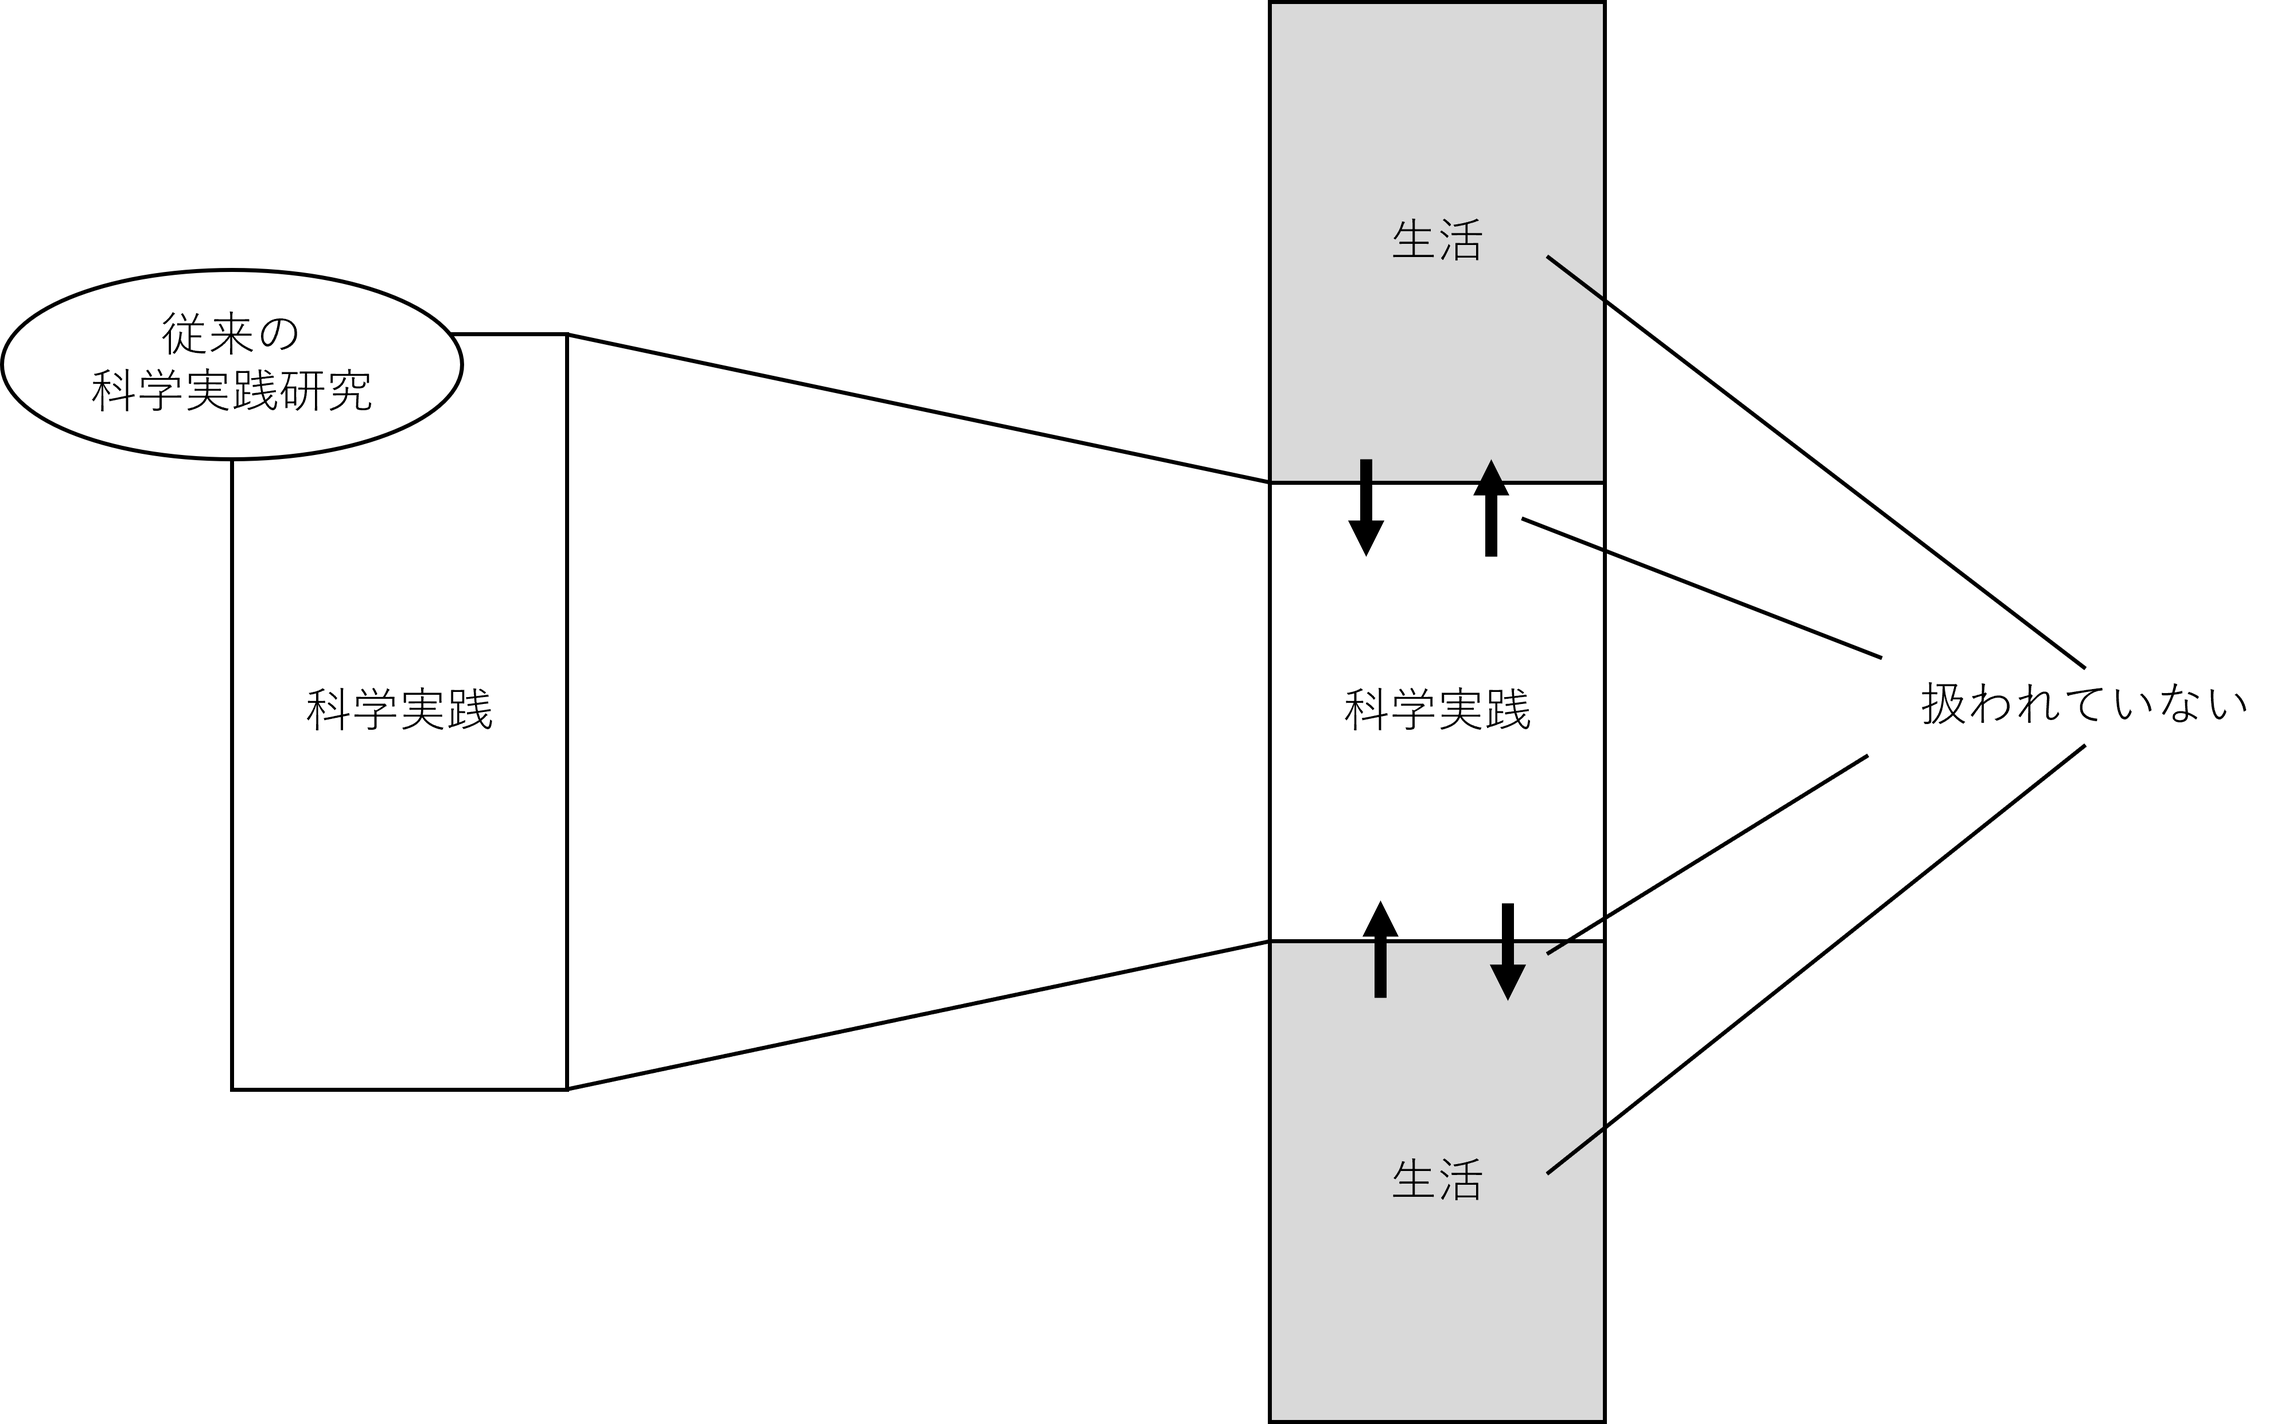
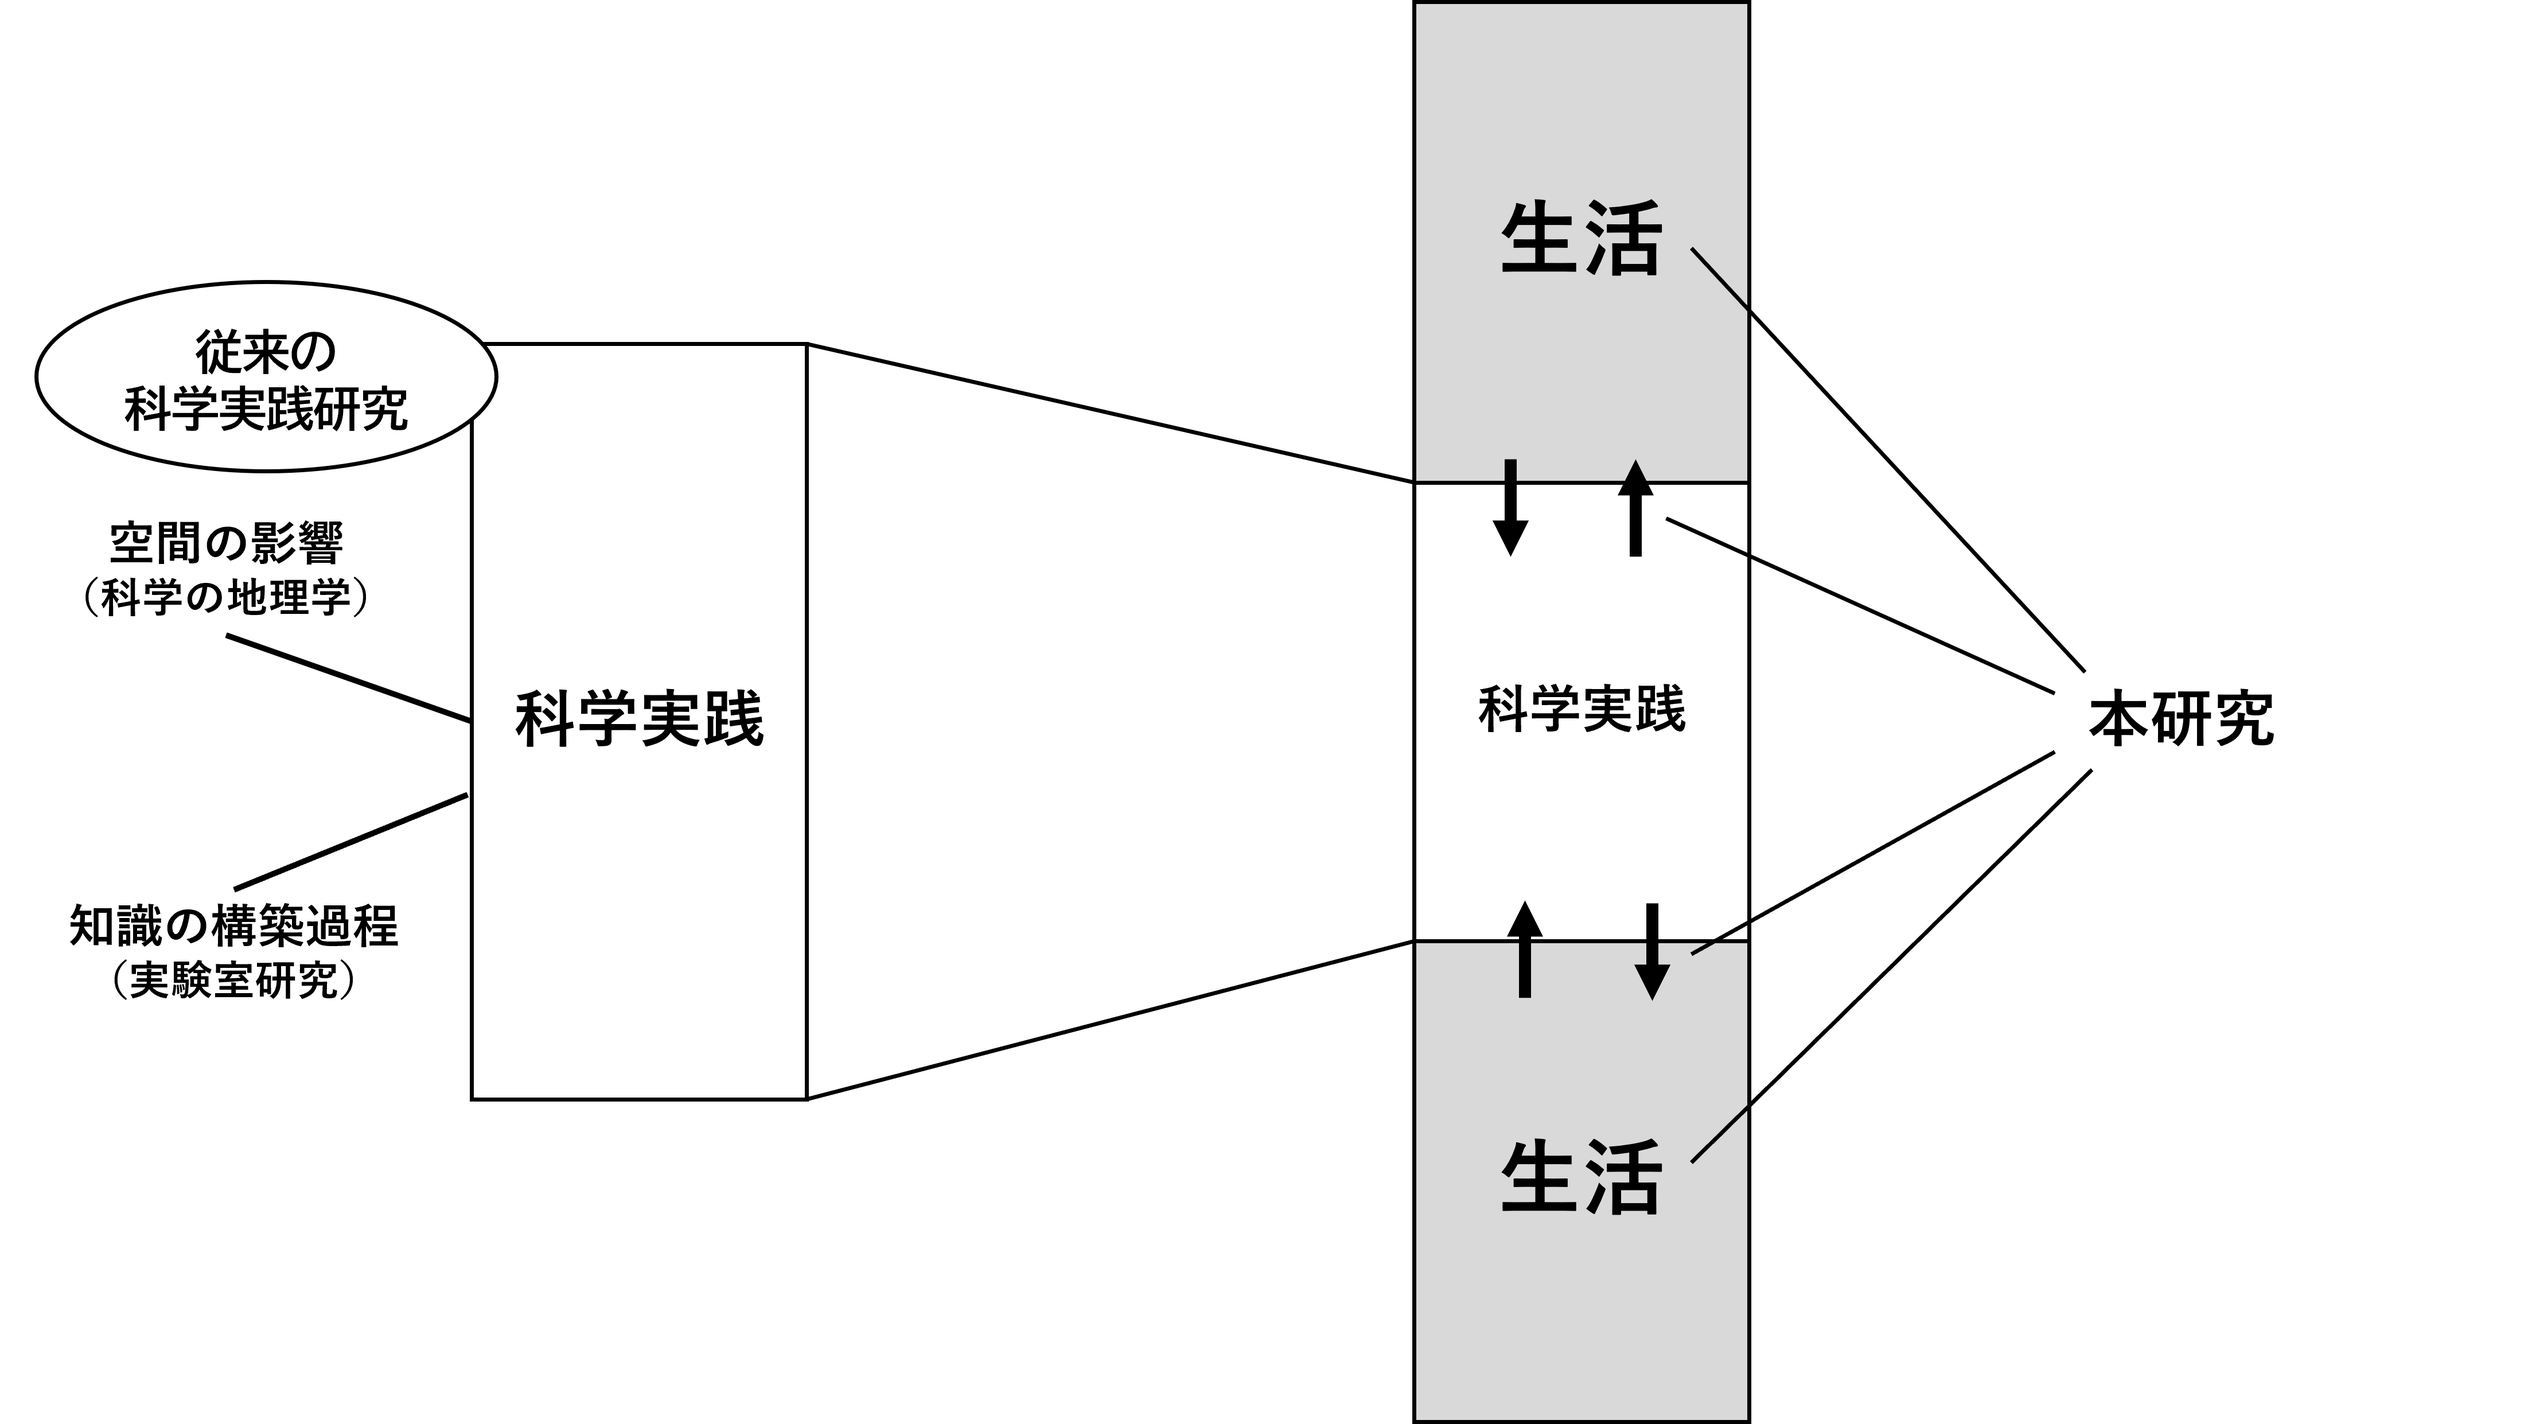
update files

diff --git a/Document/deck_修論_20260422.md b/Document/deck_修論_20260422.md
@@ -36,10 +36,6 @@ paginate : true
 
 ---
 
-近年，日本では科学力の低下が問題となっている。その要因には，若手研究者の減少や雇用問題，研究時間の不足，ジェンダーなど様々な社会的な問題を含んでいる。最近では，このような問題が顕在化し，議論されている。しかし，こうした議論において地理学的な視点が欠けている。実験室やフィールド，研究室といった空間・場所がなければ科学を行うことはできない。そのため，科学を対象とした地理学的研究は可能であり，日本の現状を考える上でも必要である。
-
----
-
 ### 科学力の低下
 
 - 日本の科学力は年々低下している。
@@ -53,35 +49,65 @@ paginate : true
 
 ### 科学力低下の要因
 
-<div class = font25>
-（Ex）
-
-- 若手研究者の不足
-- 雇用・労働問題
-- 研究時間の不足
-
-etc...
-
-**⇒科学と社会は切っても切り離せない関係となっている。**
+![a](../Figure/fig_科学力低下の要因.png)
 
 <br>
 
-</div>
+<div class=font24>
 
-こうした要因の実態・改善・対策などに関する議論は進んでいるが、それらには**空間的視点**が欠けている。
-
-<!--
-[ToDo]
-研究時間の資料を挿入しておく
- -->
+**科学と社会の関係**を考える必要が出てきている→**地理学的視点が欠けている**
 
 ---
 
-地理学において科学を直接対象とする研究はほとんど存在しないが，科学に関連した事象を扱う研究は一定数みられる。例えば，水野（2005）では，イノベーションを産業集積論や都市論から検討するイノベーションの地理学について整理している。さらに，中川ほか（1992）や加藤（2004）のような学園都市を対象に研究開発機能の立地や研究者の移動と集積を分析する研究もある。このような部分的に科学を対象としている研究は存在している。しかし，こうした研究は科学の空間的な性質を明らかにするというよりも，経済発展を目的としている。また，研究の多くはマクロ・メゾスケールであり，ミクロスケールでの研究は管見の限り見られなかった。
+### 科学を行うには「空間」が不可欠
+
+<div class=font24>
+
+- 実験・調査・執筆のような活動は特定の空間のがあって成立する
+- にもかかわらず、科学と空間の関係はほとんど議論されてこなかった
+
+<br>
+
+→ 科学を地理学から捉える視点は不可欠
+
+<br>
+
+日本の現状を考える上でも有用な視点になるのでは
 
 ---
 
-とはいえ，地理学的な視点から科学を対象とする研究は存在しないわけではない。欧米では，科学の地理学という分野が存在する。前回の発表では，成立背景や経緯，それに関わる周辺領域との関係を説明したため，具体的な内容は割愛する。この分野の課題として，今現在の科学実践を対象とした研究が不足していることが挙げられる。
+しかし，こうした研究は科学の空間的な性質を明らかにするというよりも，経済発展を目的としている。また，研究の多くはマクロ・メゾスケールであり，ミクロスケールでの研究は管見の限り見られなかった。
+
+---
+<div class=font20>
+
+### 科学を対象とした地理学的研究
+
+- 科学を**直接対象とした**研究　　　→**ほとんど存在しない**
+- 科学に**関連した**事象を扱う研究　→　**一定数存在する**
+
+### 科学に関連した事象を扱う研究
+
+- **イノベーションの地理学**（水野 2005）
+  - イノベーション×産業集積論・都市論
+  - 知識のスピルオーバー
+- **学園都市研究**
+  - 研究開発機関の立地（中川ほか 1992）
+  - 研究者の移動と集積（佐藤 2004）
+
+→こうした研究は**科学の空間的な性質を明らかにするものではない**
+→研究の多くはマクロ・メゾスケールであり、**ミクロスケールでの研究が欠如**
+
+---
+
+### 科学を対象とした地理学的研究
+
+- 科学の地理学
+  - 欧米圏で発展した枠組み
+  - 前回の発表では，成立背景や経緯，それに関わる周辺領域との関係を説明
+  - 科学と空間の関係を扱うが、歴史事例が中心
+
+→課題の一つに、**今の科学実践を対象とした研究が不足している**ことが挙げられる
 
 ---
 
@@ -91,11 +117,24 @@ etc...
 
 - 知識生産に関する活動や行動のこと。
 
-![alt text](../Figure/fig_科学実践の例の一覧.png)
+![科学実践の例](../Figure/fig_科学実践の例の一覧.png)
 
 ---
 
-科学実践を扱った研究は主に科学技術社会論（STS）で行われている。しかし，先述したミクロスケールでの研究が欠如している点と科学の地理学における課題を考慮するのであれば，地理学的に科学実践を分析することは不可欠である。
+### 科学実践を扱った研究の現状
+
+- 主に科学技術社会論（STS）が主流
+  - 科学を社会的・文化的な視点から分析する枠組み
+  - ただし、空間的視点は限定的
+
+#### 地理学における課題
+
+- 科学に関連する地理学：ミクロスケールでの研究が欠如している
+- 科学の地理学における課題：今の科学実践を対象とした研究が不足している
+
+<br>
+
+→ **科学実践をミクロなスケールで捉える地理学的研究が必要**
 
 ---
 
@@ -103,9 +142,7 @@ etc...
 
 ---
 
-## 実験室研究
-
-
+### 実験室研究
 
 - 1980年代に勃興
 - 実験室の中に社会学者がはいり，そこで行われている研究者の日常的な行動を記述していく
@@ -131,11 +168,17 @@ etc...
 
 ### 『ラボラトリー・ライフ』
 
-- 1970年頃のアメリカのソーク研究所の神経内分泌を研究する実験室に長期間のエスノグラフィーを行う
-- 目的・関心
-  - 実験室の中で営まれる科学者の日々の活動がどのようにして科学知識の構築につながるのか
+<div class=font18>
+
+- 1970年頃のアメリカのソーク研究所の神経内分泌を研究する実験室にエスノグラフィーを実施
+
+![height:500](../Figure/fig_ラボラトリー・ライフのまとめ.png)
+
+---
+
+### 『ラボラトリー・ライフ』
+
 - 非人間も知識構築の重要なアクター
-  - 研究者である人間
   - 論文やメモといった描出物
   - コンピューターやタイプライターといった描出装置
 - それらが相互に関係を持ち，ネットワークを構築している→ANTへ
@@ -196,11 +239,53 @@ etc...
 
 ---
 
-## 共通する課題
+### 科学実践級の整理
 
-従来の科学実践研究について整理すると，実験室研究では研究者の実践を基に科学的知識の生産過程を明らかにしてきた。一方で，科学の地理学では知識生産そのものではなく，科学実践がどのような空間的・環境的・制度的条件のもとで可能になるのかを明らかにしてきた。つまり，前者は知識生産のミクロなプロセスに，後者は科学実践を支える空間的諸条件に焦点を当てており，両者は科学実践の異なる側面を扱っている。
-しかし，これらの研究はいずれも，科学実践が日常生活にどのように埋め込まれているのか，すなわち家庭のケア，家事，移動，生活リズム，睡眠，その他の仕事といった日常的な活動の中で科学実践がどのように行われているのかは十分に扱われていない。実際，睡眠や食事が確保されなければ研究を続けることはできず，研究室や自宅にしかない資料を参照するためには移動が伴う。また，執筆中に家庭の手伝いや他の業務が入れば作業は中断される。加えて，最近では，研究と生活の折り合いのつけづらさや自身の研究キャリアと家庭との葛藤などが語られ始めている（岩波書店編集部 2024）。
-このように，科学実践は日常生活から独立した営みではない。むしろ日常生活を含めた活動の連鎖の一つとして位置付けることができる。言い換えれば，科学実践とは日常生活に埋め込まれた営みとして捉えることができる。仮に科学実践研究を知識生産の議論の範疇に位置づけるとしても，その知識生産を支え，可能にしている睡眠・食事・ケア・家事といった再生産活動はほとんど顧みられていない。
+- 実験室研究（STS）
+  - 研究者の行為を詳細に記述し、知識生産のミクロなプロセスを明らかにしてきた
+  - 主に実験室内部に焦点が置かれる→近年ではアプローチが多様化
+- 科学の地理学
+  - 科学が成立する空間的・環境的・制度的条件を分析してきた
+  - 知識生産そのものではなく、科学実践を構成する空間に着目
+
+→ 両者は科学実践の異なる側面を扱っている
+
+<!-- 従来の科学実践研究について整理すると，実験室研究では研究者の実践を基に科学的知識の生産過程を明らかにしてきた。一方で，科学の地理学では知識生産そのものではなく，科学実践がどのような空間的・環境的・制度的条件のもとで可能になるのかを明らかにしてきた。つまり，前者は知識生産のミクロなプロセスに，後者は科学実践を支える空間的諸条件に焦点を当てており，両者は科学実践の異なる側面を扱っている。 -->
+
+---
+
+### 共通する課題：日常生活の欠如
+
+<div class=font20>
+
+- いずれの研究も、**科学実践が日常生活にどのように埋め込まれているのか**を扱っていない
+  - 科学実践と日常生活の関連が示されていない
+  - 生活構造による科学実践への影響が示されていない
+
+### 科学実践と日常生活は関連する
+
+- 睡眠や食事が確保されなければ研究を続けることはできない
+- 研究室や自宅にしかない資料を参照するためには移動が伴う
+- 執筆中に家庭の手伝いや他の業務が入れば作業は中断されてしまう
+- 最近では，研究と生活の折り合いのつけづらさや自身の研究キャリアと家庭との葛藤などが語られ始めている（岩波書店編集部 2024）。
+
+---
+
+<div class=font20>
+
+- **科学実践は日常生活から独立した営みではない**
+- 日常生活を含めた**活動の連鎖の一つ** → **科学実践とは日常生活に埋め込まれた営み**
+
+![height:530](../Figure/fig_実践研究の課題.png)
+
+---
+
+### 知識生産論として
+
+- 生産に関する議論は多くなされている
+  - 実験室研究もその代表例
+- しかし、再生産活動との関係についての議論は少ない
+  - 知識生産を支え、可能にしている睡眠・食事・ケア・家事といった再生産活動との関係についてはほとんど顧みられていない
 
 ---
 
@@ -224,12 +309,12 @@ etc...
 
 #### 方法論的課題
 
-- 既存研究（実験室研究／科学の地理学）には日常生活を捉える枠組みがない
-→ 時間地理学を導入し、科学実践を活動の連鎖として把握する方法論を探索
+- 既存研究（実験室研究／科学の地理学）には**日常生活を捉える枠組みがない**
+→ 時間地理学を導入し、科学実践を活動の連鎖として把握する**方法論を探索**
 
 #### 実証的課題
 
-- 上記の枠組みを用いてミクロスケールの科学実践の時空間構造を記述・分析する
+- 上記の枠組みを用いてミクロスケールの**科学実践の時空間構造を記述・分析する**
 
 ---
 
@@ -273,7 +358,7 @@ etc...
 ### インタビュー調査
 
 - 目的：生活日誌の背景を理解する
-  - 生活構造
+  - 生活日誌の不明点（秘匿してほしい部分もきく）
   - 研究の進め方
   - 研究場所の選択理由
   - 生活上の制約
